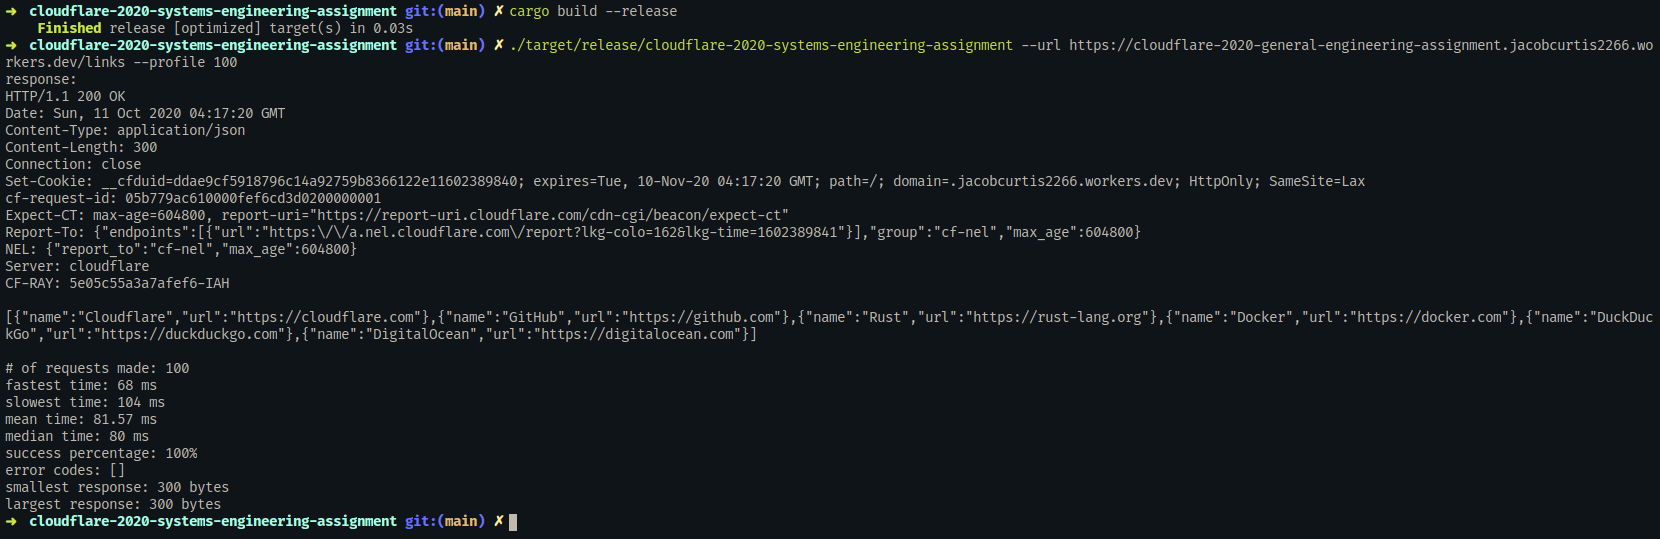
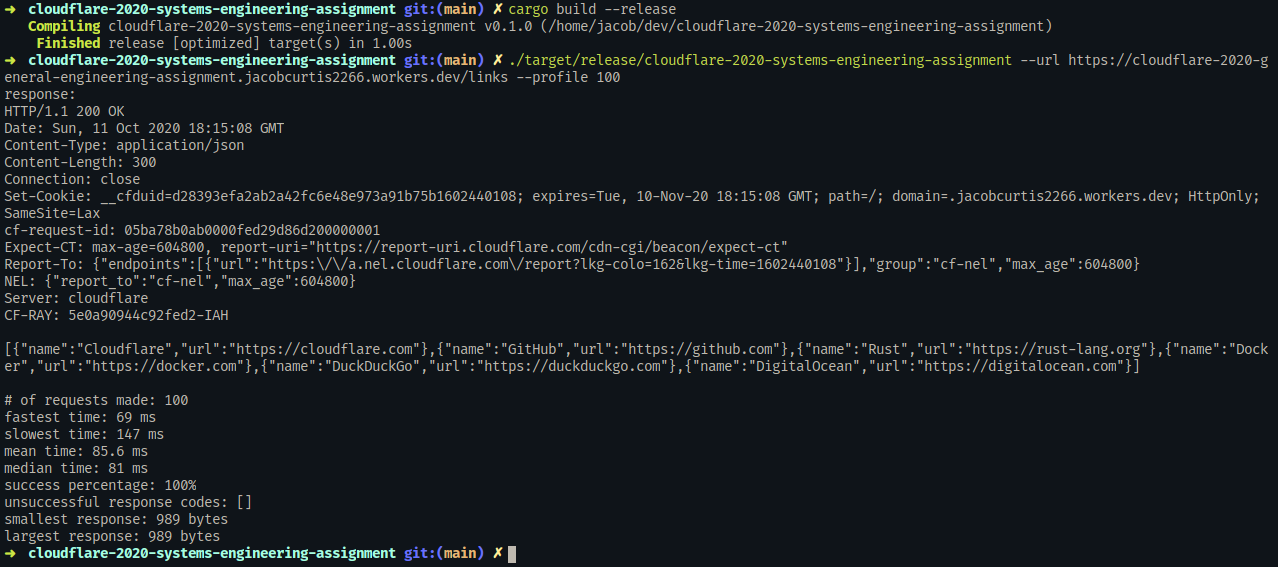
use response length instead of body length, 2xx as successful codes, update benchmarks

Changed region(s): [[0.0, 0.0, 1.0, 1.0]]

diff --git a/src/benchmarks.rs b/src/benchmarks.rs
@@ -7,7 +7,7 @@ pub struct Benchmarks {
     pub slowest: Option<u128>,
     pub fastest: Option<u128>,
     pub succeeded: u32,
-    pub error_codes: Vec<u32>,
+    pub unsuccessful_codes: Vec<u32>,
     pub smallest: Option<usize>,
     pub largest: usize,
 }
@@ -15,7 +15,7 @@ pub struct Benchmarks {
 impl Benchmarks {
     /// Updates our benchmark values as necessary given the start, end Instants and
     /// the response.
-    pub fn update(&mut self, start: Instant, end: Instant, resp: String) -> Option<()> {
+    pub fn update(&mut self, start: Instant, end: Instant, resp: &str) -> Option<()> {
         let duration = end
             .checked_duration_since(start)
             .expect("End instant occurred before start instant");
@@ -42,28 +42,26 @@ impl Benchmarks {
                 self.fastest.replace(ms);
             }
         }
-
-        // Get the response body. If there was not one, return
-        let body = resp.splitn(2, "\r\n\r\n").last()?;
         
         // Update the largest response body if necessary
-        self.largest = self.largest.max(body.len());
+        self.largest = self.largest.max(resp.len());
 
         // Update the smallest response body if necessary
         match &mut self.smallest {
             Some(smallest) => {
-                 *smallest = (*smallest).min(body.len());
+                *smallest = (*smallest).min(resp.len());
             },
             None => {
-                self.smallest.replace(body.len());
+                self.smallest.replace(resp.len());
             }
         }
 
         // Get the 2nd value in the iterator, which is the response code;
         let code = resp.split_ascii_whitespace().into_iter().nth(1)?;
         if let Ok(code) = code.parse::<u32>() {
-            if code >= 400 {
-                self.error_codes.push(code);
+            // Consider anything not a 2xx response as unsuccessful.
+            if code < 200 || code > 299 {
+                self.unsuccessful_codes.push(code);
             } else {
                 self.succeeded += 1;
             }
@@ -88,7 +86,8 @@ impl Benchmarks {
 
     /// Computes the success percentage of the requests
     pub fn success_percentage(&self) -> f64 {
-        let num = self.durations.len();
-        ((num - self.error_codes.len()) as f64 / num as f64) * 100 as f64
+        let total = self.durations.len();
+        let successful = total - self.unsuccessful_codes.len();
+        (successful as f64 / total as f64) * 100 as f64
     }
 }

diff --git a/src/main.rs b/src/main.rs
@@ -68,8 +68,8 @@ fn main() -> Result<()> {
             println!("response:\n{}", resp);
         }
 
-        // Do benchmarks
-        bench.update(start, end, resp);
+        // Update benchmarks
+        bench.update(start, end, &resp);
     }
 
     // Print benchmark results
@@ -80,7 +80,7 @@ fn main() -> Result<()> {
     println!("mean time: {} ms", bench.mean());
     println!("median time: {} ms", bench.median());
     println!("success percentage: {}%", bench.success_percentage());
-    println!("error codes: {:?}", bench.error_codes);
+    println!("unsuccessful response codes: {:?}", bench.unsuccessful_codes);
     println!("smallest response: {} bytes", bench.smallest.unwrap_or_default());
     println!("largest response: {} bytes", bench.largest);
 

diff --git a/README.md b/README.md
@@ -22,41 +22,41 @@ Command run: `./target/release/cloudflare-2020-systems-engineering-assignment --
 ### Other Site Benchmark Outputs
 Note: omitting returned webpage content due to their length.
 
-Output for https://github.com/nnazo
+Reduced output for `./target/release/cloudflare-2020-systems-engineering-assignment --url https://github.com/nnazo --profile 100`
 ```
 # of requests made: 100
 fastest time: 195 ms
-slowest time: 1023 ms
-mean time: 276.83 ms
-median time: 213 ms
-success percentage: 49%
-error codes: [429, 429, 429, 429, 429, 429, 429, 429, 429, 429, 429, 429, 429, 429, 429, 429, 429, 429, 429, 429, 429, 429, 429, 429, 429, 429, 429, 429, 429, 429, 429, 429, 429, 429, 429, 429, 429, 429, 429, 429, 429, 429, 429, 429, 429, 429, 429, 429, 429, 429, 429]
-smallest response: 1474 bytes
-largest response: 172206 bytes
+slowest time: 1178 ms
+mean time: 267.17 ms
+median time: 209 ms
+success percentage: 39%
+unsuccessful response codes: [429, 429, 429, 429, 429, 429, 429, 429, 429, 429, 429, 429, 429, 429, 429, 429, 429, 429, 429, 429, 429, 429, 429, 429, 429, 429, 429, 429, 429, 429, 429, 429, 429, 429, 429, 429, 429, 429, 429, 429, 429, 429, 429, 429, 429, 429, 429, 429, 429, 429, 429, 429, 429, 429, 429, 429, 429, 429, 429, 429, 429]
+smallest response: 1947 bytes
+largest response: 174617 bytes
 ```
 
-Output for https://duckduckgo.com
+Reduced output for `./target/release/cloudflare-2020-systems-engineering-assignment --url https://duckduckgo.com --profile 100`
 ```
 # of requests made: 100
 fastest time: 168 ms
-slowest time: 216 ms
-mean time: 189.74 ms
-median time: 189 ms
+slowest time: 215 ms
+mean time: 189.08 ms
+median time: 193 ms
 success percentage: 100%
-error codes: []
-smallest response: 5763 bytes
-largest response: 5763 bytes
+unsuccessful response codes: []
+smallest response: 6346 bytes
+largest response: 7138 bytes
 ```
 
 Full output for https://google.com
 ```
-➜  cloudflare-2020-systems-engineering-assignment git:(main) ✗ ./target/release/cloudflare-2020-systems-engineering-assignment --url https://google.com --profile 100
+➜  cloudflare-2020-systems-engineering-assignment git:(main) ✗ ./target/release/cloudflare-2020-systems-engineering-assignment --url https://google.com --profile 100    
 response:
 HTTP/1.1 301 Moved Permanently
 Location: https://www.google.com/
 Content-Type: text/html; charset=UTF-8
-Date: Sun, 11 Oct 2020 04:22:50 GMT
-Expires: Tue, 10 Nov 2020 04:22:50 GMT
+Date: Sun, 11 Oct 2020 18:21:15 GMT
+Expires: Tue, 10 Nov 2020 18:21:15 GMT
 Cache-Control: public, max-age=2592000
 Server: gws
 Content-Length: 220
@@ -74,14 +74,14 @@ The document has moved
 
 
 # of requests made: 100
-fastest time: 90 ms
-slowest time: 185 ms
-mean time: 99.9 ms
-median time: 99 ms
-success percentage: 100%
-error codes: []
-smallest response: 220 bytes
-largest response: 220 bytes
+fastest time: 86 ms
+slowest time: 122 ms
+mean time: 98.34 ms
+median time: 96 ms
+success percentage: 0%
+unsuccessful response codes: [301, 301, 301, 301, 301, 301, 301, 301, 301, 301, 301, 301, 301, 301, 301, 301, 301, 301, 301, 301, 301, 301, 301, 301, 301, 301, 301, 301, 301, 301, 301, 301, 301, 301, 301, 301, 301, 301, 301, 301, 301, 301, 301, 301, 301, 301, 301, 301, 301, 301, 301, 301, 301, 301, 301, 301, 301, 301, 301, 301, 301, 301, 301, 301, 301, 301, 301, 301, 301, 301, 301, 301, 301, 301, 301, 301, 301, 301, 301, 301, 301, 301, 301, 301, 301, 301, 301, 301, 301, 301, 301, 301, 301, 301, 301, 301, 301, 301, 301, 301]
+smallest response: 779 bytes
+largest response: 779 bytes
 ```
 
-Out of the requests that returned a semi-large HTML webpage, the worker site seemed the fastest for the given response size. The github and request took much longer and returned a response half the size, though requests did get rate-limited in that benchmark. Google had a similar benchmark time but the response was much smaler than the worker site.
+Out of the requests that returned a semi-large HTML webpage, the worker site seemed the fastest for the given response size. The github request took much longer although the successful responses were much larger. Rust-lang had a similar benchmark time but the response was much smaler than the worker site since it was always gave a 301 response code.
